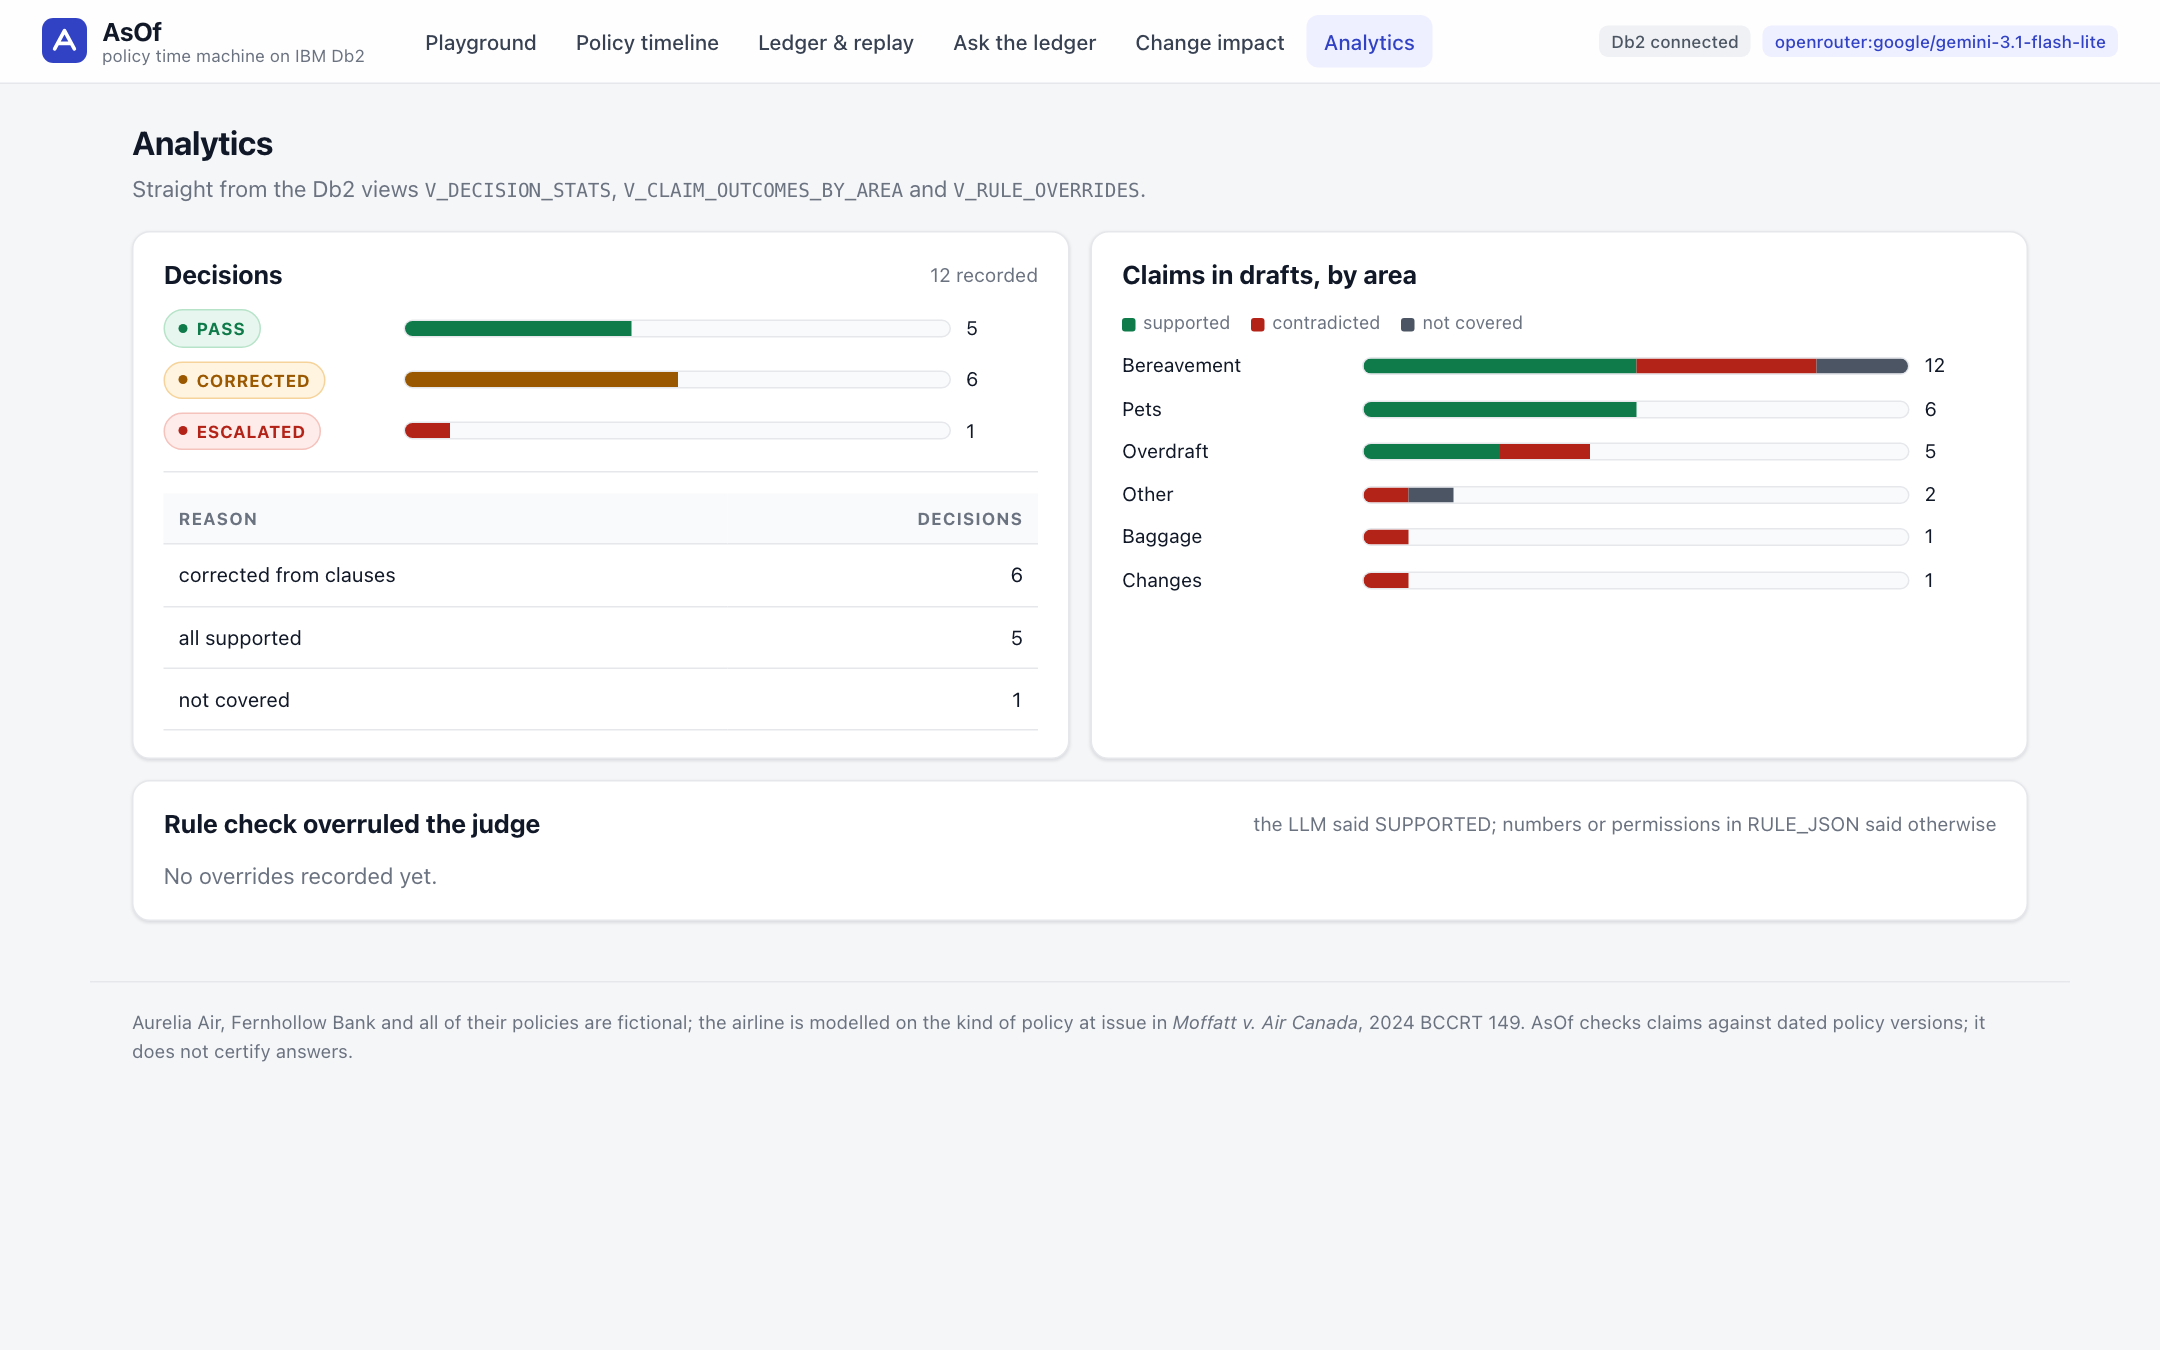
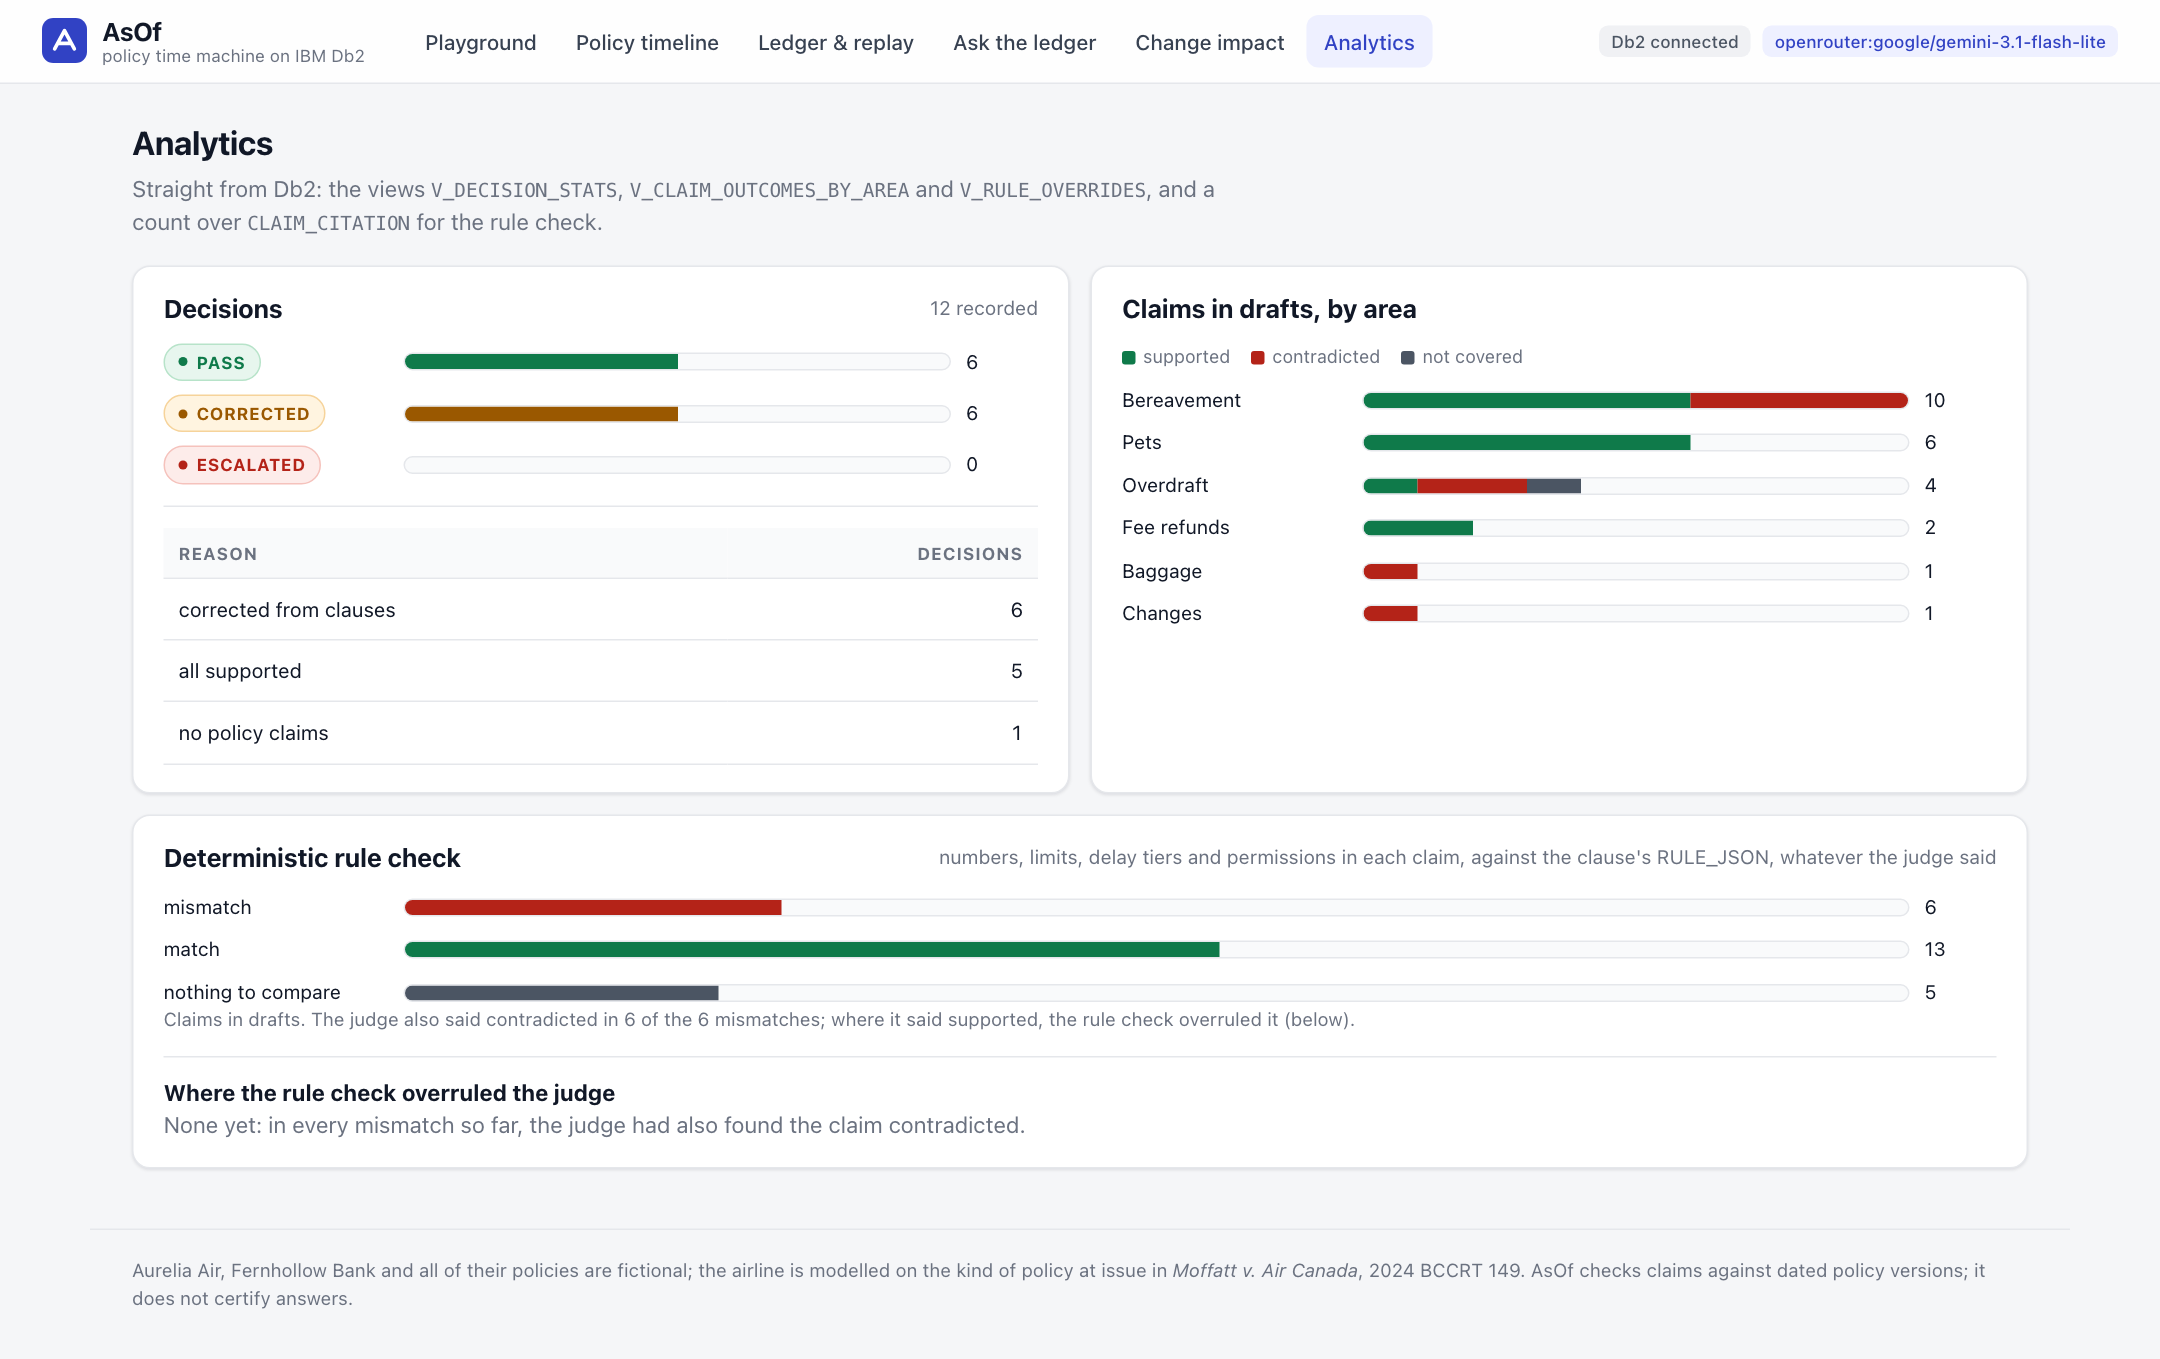
docs(asof): retake the screenshots on the current check from a clean demo run
Analytics shows the deterministic rule-check card; Ask the ledger shows seven masked rows; ledger shows chain and anchors.

diff --git a/README.md b/README.md
@@ -718,7 +718,7 @@ Both policy documents run through the same screens: the playground has two bank 
 | ![The change-impact agent's drafted correction, checked and waiting for the editor](docs/screenshots/12-drafted-correction.png) | ![The correction approved: the help-centre answer split in time](docs/screenshots/13-correction-approved.png) |
 | ![Ask the ledger as the read-only analyst: decisions visible, customer text masked by Db2](docs/screenshots/09-ask-the-ledger.png) | ![The bank's Moffatt case: "refunded automatically", corrected from FRV-001 v1](docs/screenshots/10-bank-playground.png) |
 | ![Fernhollow Bank's fee schedule on the policy timeline](docs/screenshots/11-bank-timeline.png) | ![Audit ledger: VERIFY_CHAIN intact, and the chain-head anchors kept outside Db2 matching every entry](docs/screenshots/07-ledger.png) |
-| ![Ledger entry #1 with the chain and anchor checks and its replay: the clause row used, what Db2 held at that moment, and what applies today](docs/screenshots/03-ledger-replay.png) | ![Analytics from Db2 views: decisions, claims by area, rule-check overrides](docs/screenshots/08-analytics.png) |
+| ![Ledger entry #1 with the chain and anchor checks and its replay: the clause row used, what Db2 held at that moment, and what applies today](docs/screenshots/03-ledger-replay.png) | ![Analytics from Db2: decisions, claims by area, and the deterministic rule check with where it overruled the judge](docs/screenshots/08-analytics.png) |
 | ![The pet fee change previewed: Db2 applied it, ran CHANGE_IMPACT and rolled back, nothing saved](docs/screenshots/14-impact-preview.png) | ![A receipt checked against the ledger: entry #1 is intact](docs/screenshots/15-receipt-check.png) |
 
 **The change-impact story in four clicks:** run `python -m asof.demo` (it records pet-fee answers for a November and a December trip), open **Change impact**, choose the preset "Pet fee to $125 from 1 Dec 2026", and apply it. Db2 splits PET-001 into v1 (to 1 Dec) and v2 (from 1 Dec) with `FOR PORTION OF BUSINESS_TIME`. `CHANGE_IMPACT` reports the November answer as historically valid, the December answer as stale (the customer was told $100 for a trip that now costs $125), and help-centre answer PA-PET-001 as needing review from 1 Dec 2026. Replay on the December entry shows all three states side by side.
